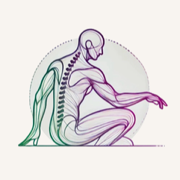
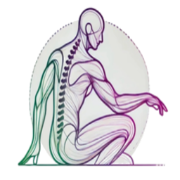
Add files via upload

diff --git a/blog.html b/blog.html
@@ -11,9 +11,11 @@
 <meta property="og:type" content="website"/>
 <meta property="og:url" content="https://www.fisiomasia.it/blog.html"/>
 <link rel="canonical" href="https://www.fisiomasia.it/blog.html"/>
-<link rel="icon" type="image/png" sizes="32x32" href="favicon-32.png"/>
+<link rel="shortcut icon" href="favicon.ico"/>
+<link rel="icon" type="image/png" sizes="32x32" href="favicon-32x32.png"/>
+<link rel="icon" type="image/png" sizes="16x16" href="favicon-16x16.png"/>
 <link rel="icon" type="image/svg+xml" href="favicon.svg"/>
-<link rel="apple-touch-icon" href="apple-touch-icon.png"/>
+<link rel="apple-touch-icon" sizes="180x180" href="apple-touch-icon.png"/>
 
 <link rel="preconnect" href="https://fonts.googleapis.com"/>
 <link rel="preconnect" href="https://fonts.gstatic.com" crossorigin/>
@@ -78,7 +80,10 @@
 
 <!-- ══ NAV ══ -->
 <nav id="nav">
-  <a href="index.html" class="nav-logo"><strong>Fabiana Masia</strong><span>Fisioterapista</span></a>
+  <a href="index.html" class="nav-logo">
+    <img src="logo.png" alt="Logo Fisiomasia" class="nav-logo-img"/>
+    <div class="nav-logo-text"><strong>Fabiana Masia</strong><span>Fisioterapista</span></div>
+  </a>
   <ul class="nav-links">
     <li><a href="index.html#chi-sono">Chi sono</a></li>
     <li><a href="index.html#trattamenti">Servizi</a></li>

diff --git a/patologie-trattate.html b/patologie-trattate.html
@@ -12,9 +12,11 @@
 <meta property="og:type" content="website"/>
 <meta property="og:url" content="https://www.fisiomasia.it/patologie-trattate.html"/>
 <link rel="canonical" href="https://www.fisiomasia.it/patologie-trattate.html"/>
-<link rel="icon" type="image/png" sizes="32x32" href="favicon-32.png"/>
+<link rel="shortcut icon" href="favicon.ico"/>
+<link rel="icon" type="image/png" sizes="32x32" href="favicon-32x32.png"/>
+<link rel="icon" type="image/png" sizes="16x16" href="favicon-16x16.png"/>
 <link rel="icon" type="image/svg+xml" href="favicon.svg"/>
-<link rel="apple-touch-icon" href="apple-touch-icon.png"/>
+<link rel="apple-touch-icon" sizes="180x180" href="apple-touch-icon.png"/>
 
 <script type="application/ld+json">
 {"@context":"https://schema.org","@type":"MedicalWebPage",
@@ -85,7 +87,10 @@
 
 <!-- ══ NAV ══ -->
 <nav id="nav">
-  <a href="index.html" class="nav-logo"><strong>Fabiana Masia</strong><span>Fisioterapista</span></a>
+  <a href="index.html" class="nav-logo">
+    <img src="logo.png" alt="Logo Fisiomasia" class="nav-logo-img"/>
+    <div class="nav-logo-text"><strong>Fabiana Masia</strong><span>Fisioterapista</span></div>
+  </a>
   <ul class="nav-links">
     <li><a href="index.html#chi-sono">Chi sono</a></li>
     <li><a href="index.html#trattamenti">Servizi</a></li>

diff --git a/privacy.html b/privacy.html
@@ -6,9 +6,11 @@
   <title>Informativa Privacy – Studio Fisiomasia</title>
   <meta name="description" content="Informativa sul trattamento dei dati personali ai sensi del Regolamento UE 2016/679 (GDPR) – Studio di Fisioterapia Fabiana Masia"/>
   <meta name="robots" content="noindex"/>
-  <link rel="icon" type="image/png" sizes="32x32" href="favicon-32.png"/>
+  <link rel="shortcut icon" href="favicon.ico"/>
+  <link rel="icon" type="image/png" sizes="32x32" href="favicon-32x32.png"/>
+  <link rel="icon" type="image/png" sizes="16x16" href="favicon-16x16.png"/>
   <link rel="icon" type="image/svg+xml" href="favicon.svg"/>
-  <link rel="apple-touch-icon" href="apple-touch-icon.png"/>
+  <link rel="apple-touch-icon" sizes="180x180" href="apple-touch-icon.png"/>
   <link rel="preconnect" href="https://fonts.googleapis.com"/>
   <link href="https://fonts.googleapis.com/css2?family=Cormorant+Garamond:ital,wght@0,400;0,600;1,400&family=DM+Sans:wght@400;500;600&display=swap" rel="stylesheet"/>
   <link rel="stylesheet" href="style.css"/>

diff --git a/cookie-policy.html b/cookie-policy.html
@@ -6,9 +6,11 @@
   <title>Cookie Policy – Studio Fisiomasia</title>
   <meta name="description" content="Informativa sull'utilizzo dei cookie sul sito fisiomasia.it – Studio di Fisioterapia Fabiana Masia"/>
   <meta name="robots" content="noindex"/>
-  <link rel="icon" type="image/png" sizes="32x32" href="favicon-32.png"/>
+  <link rel="shortcut icon" href="favicon.ico"/>
+  <link rel="icon" type="image/png" sizes="32x32" href="favicon-32x32.png"/>
+  <link rel="icon" type="image/png" sizes="16x16" href="favicon-16x16.png"/>
   <link rel="icon" type="image/svg+xml" href="favicon.svg"/>
-  <link rel="apple-touch-icon" href="apple-touch-icon.png"/>
+  <link rel="apple-touch-icon" sizes="180x180" href="apple-touch-icon.png"/>
   <link rel="preconnect" href="https://fonts.googleapis.com"/>
   <link href="https://fonts.googleapis.com/css2?family=Cormorant+Garamond:ital,wght@0,400;0,600;1,400&family=DM+Sans:wght@400;500;600&display=swap" rel="stylesheet"/>
   <link rel="stylesheet" href="style.css"/>

diff --git a/zone-servite.html b/zone-servite.html
@@ -15,9 +15,11 @@
 <meta property="og:type" content="website"/>
 <meta property="og:url" content="https://www.fisiomasia.it/zone-servite.html"/>
 <link rel="canonical" href="https://www.fisiomasia.it/zone-servite.html"/>
-<link rel="icon" type="image/png" sizes="32x32" href="favicon-32.png"/>
+<link rel="shortcut icon" href="favicon.ico"/>
+<link rel="icon" type="image/png" sizes="32x32" href="favicon-32x32.png"/>
+<link rel="icon" type="image/png" sizes="16x16" href="favicon-16x16.png"/>
 <link rel="icon" type="image/svg+xml" href="favicon.svg"/>
-<link rel="apple-touch-icon" href="apple-touch-icon.png"/>
+<link rel="apple-touch-icon" sizes="180x180" href="apple-touch-icon.png"/>
 
 <script type="application/ld+json">
 {"@context":"https://schema.org","@type":"Physiotherapist",

diff --git a/clinical-pilates.html b/clinical-pilates.html
@@ -12,9 +12,11 @@
 <meta property="og:type" content="website"/>
 <meta property="og:url" content="https://www.fisiomasia.it/clinical-pilates.html"/>
 <link rel="canonical" href="https://www.fisiomasia.it/clinical-pilates.html"/>
-<link rel="icon" type="image/png" sizes="32x32" href="favicon-32.png"/>
+<link rel="shortcut icon" href="favicon.ico"/>
+<link rel="icon" type="image/png" sizes="32x32" href="favicon-32x32.png"/>
+<link rel="icon" type="image/png" sizes="16x16" href="favicon-16x16.png"/>
 <link rel="icon" type="image/svg+xml" href="favicon.svg"/>
-<link rel="apple-touch-icon" href="apple-touch-icon.png"/>
+<link rel="apple-touch-icon" sizes="180x180" href="apple-touch-icon.png"/>
 
 <script type="application/ld+json">
 {"@context":"https://schema.org","@type":"Course",

diff --git a/index.html b/index.html
@@ -20,9 +20,11 @@
 <meta property="og:locale" content="it_IT"/>
 <meta name="twitter:card" content="summary_large_image"/>
 <link rel="canonical" href="https://www.fisiomasia.it/"/>
-<link rel="icon" type="image/png" sizes="32x32" href="favicon-32.png"/>
+<link rel="shortcut icon" href="favicon.ico"/>
+<link rel="icon" type="image/png" sizes="32x32" href="favicon-32x32.png"/>
+<link rel="icon" type="image/png" sizes="16x16" href="favicon-16x16.png"/>
 <link rel="icon" type="image/svg+xml" href="favicon.svg"/>
-<link rel="apple-touch-icon" href="apple-touch-icon.png"/>
+<link rel="apple-touch-icon" sizes="180x180" href="apple-touch-icon.png"/>
 
 <script type="application/ld+json">
 {"@context":"https://schema.org","@type":"Physiotherapist",
